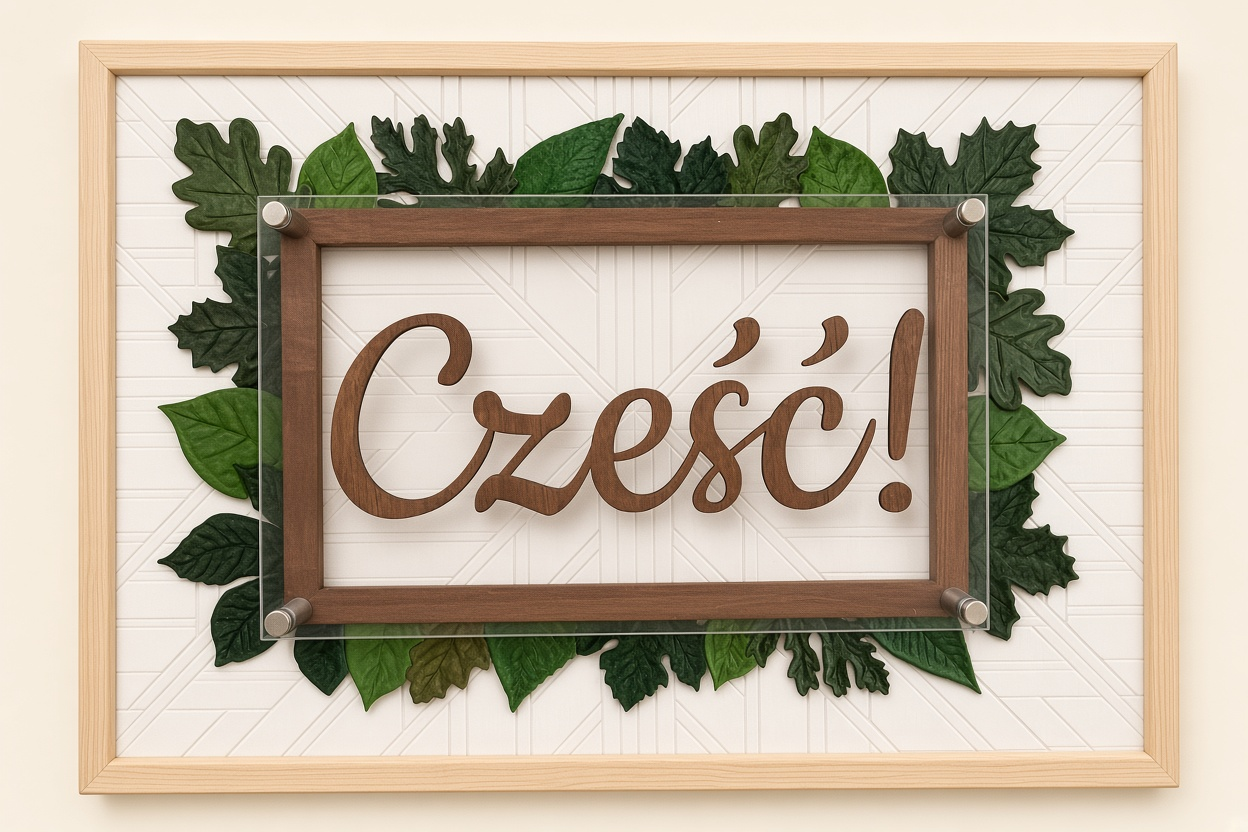
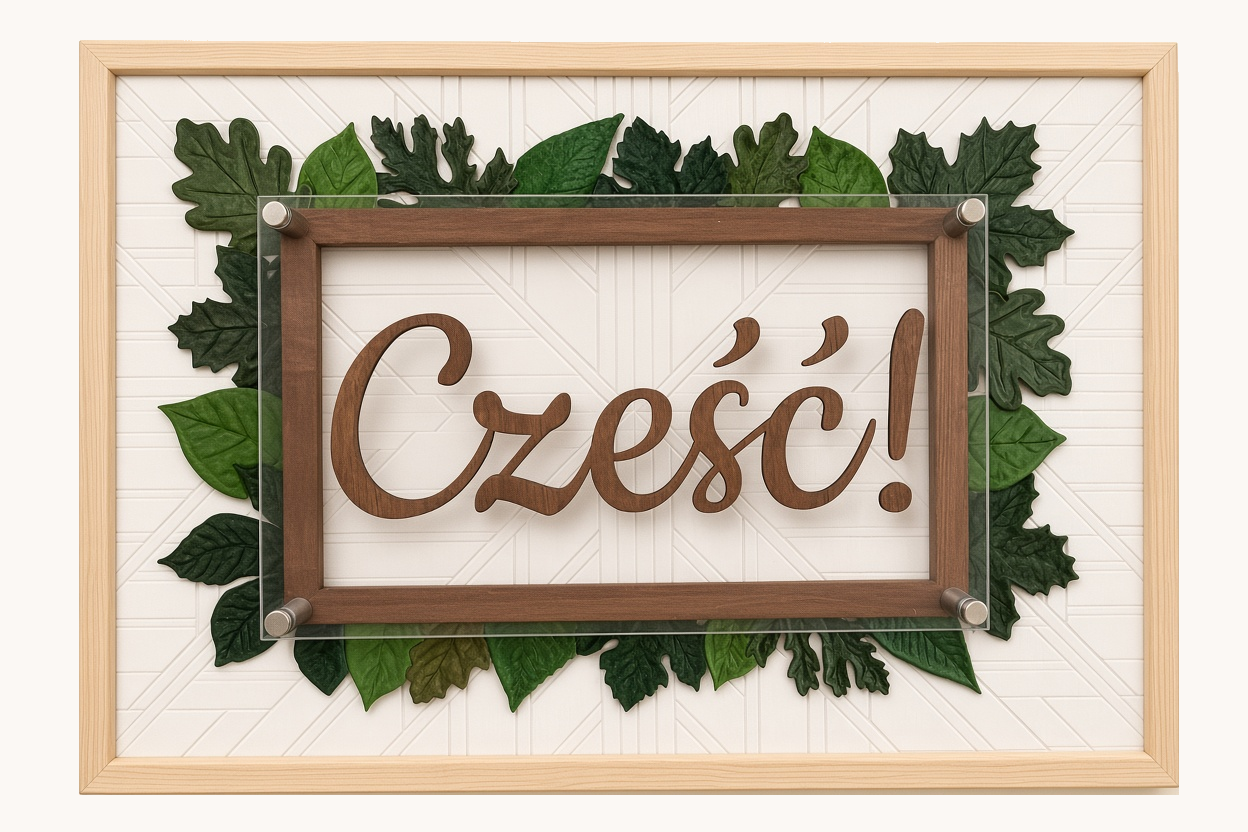
Match sign photo background to homepage cream

Changed region(s): [[0.0312, 0.0625, 0.9688, 1.0]]

diff --git a/docs/admin.html b/docs/admin.html
@@ -137,8 +137,8 @@
         <div class="live-home-fields">
           <article class="live-home-block live-home-hero">
             <div class="live-home-block-title"><span>01</span><div><b>Zdjęcie i tekst główny</b><small>Duże zdjęcie w sekcji hero strony startowej</small></div></div>
-            <div class="live-home-image-row"><img id="nh-hero-thumb" src="assets/media/sklep/szyld-czesc-profesjonalne.jpg" alt="Podgląd zdjęcia głównego"><div class="live-home-image-controls">
-              <label for="nh-hero-image">Adres zdjęcia</label><input id="nh-hero-image" type="url" value="assets/media/sklep/szyld-czesc-profesjonalne.jpg" placeholder="https://… lub assets/…">
+            <div class="live-home-image-row"><img id="nh-hero-thumb" src="assets/media/sklep/szyld-czesc-profesjonalne.png?v=sitecream-1" alt="Podgląd zdjęcia głównego"><div class="live-home-image-controls">
+              <label for="nh-hero-image">Adres zdjęcia</label><input id="nh-hero-image" type="url" value="assets/media/sklep/szyld-czesc-profesjonalne.png?v=sitecream-1" placeholder="https://… lub assets/…">
               <div class="live-home-upload"><input id="nh-hero-file" type="file" accept="image/*"><button class="btn outline" id="nh-hero-upload" type="button">Wgraj zdjęcie do biblioteki</button></div>
             </div></div>
             <div class="live-home-text-grid"><label>Tytuł<input id="nh-hero-title" value="Z miłości do drewna" maxlength="90"></label><label>Opis<textarea id="nh-hero-copy" rows="2" maxlength="240">Personalizowane drewniane tablice, szopki i dekoracje na wyjątkowe chwile.</textarea></label></div>
@@ -146,10 +146,10 @@
           <div class="live-home-block-title live-home-products-title"><span>02</span><div><b>Trzy karty „Wybrane dla Ciebie”</b><small>Edytuj treści oraz zdjęcia wszystkich trzech kart</small></div></div>
           <div class="live-home-product-grid">
             <article class="live-home-product-editor"><img id="nh-card1-thumb" src="assets/media/sklep/szopka.jpg" alt="Podgląd zdjęcia karty pierwszej"><label>Kategoria<input id="nh-card1-category" value="Dekoracje świąteczne"></label><label>Nazwa produktu<input id="nh-card1-title" value="Szopka bożonarodzeniowa (warstwowa)"></label><label>Opis<input id="nh-card1-description" value=""></label><label>Cena / informacja o wycenie<input id="nh-card1-price" value="319 zł / szt."></label><label>Tekst linku<input id="nh-card1-cta" value="Zapytaj o produkt →"></label><label>Adres zdjęcia<input id="nh-card1-image" type="url" value="assets/media/sklep/szopka.jpg" placeholder="https://… lub assets/…"></label><div class="live-home-upload"><input id="nh-card1-file" type="file" accept="image/*"><button class="btn outline" id="nh-card1-upload" type="button">Wgraj zdjęcie</button></div></article>
-            <article class="live-home-product-editor"><img id="nh-card2-thumb" src="assets/media/sklep/szyld-czesc-profesjonalne.jpg" alt="Podgląd zdjęcia karty drugiej"><label>Kategoria<input id="nh-card2-category" value="Szyldy i tablice"></label><label>Nazwa produktu<input id="nh-card2-title" value="Szyld powitalny „Cześć!”"></label><label>Opis<input id="nh-card2-description" value="To wzór pokazowy — nie jest na sprzedaż. Przygotujemy szyld według Twojego projektu."></label><label>Cena / informacja o wycenie<input id="nh-card2-price" value=""></label><label>Tekst linku<input id="nh-card2-cta" value="Prześlij projekt do wyceny →"></label><label>Adres zdjęcia<input id="nh-card2-image" type="url" value="assets/media/sklep/szyld-czesc-profesjonalne.jpg" placeholder="https://… lub assets/…"></label><div class="live-home-upload"><input id="nh-card2-file" type="file" accept="image/*"><button class="btn outline" id="nh-card2-upload" type="button">Wgraj zdjęcie</button></div></article>
+            <article class="live-home-product-editor"><img id="nh-card2-thumb" src="assets/media/sklep/szyld-czesc-profesjonalne.png?v=sitecream-1" alt="Podgląd zdjęcia karty drugiej"><label>Kategoria<input id="nh-card2-category" value="Szyldy i tablice"></label><label>Nazwa produktu<input id="nh-card2-title" value="Szyld powitalny „Cześć!”"></label><label>Opis<input id="nh-card2-description" value="To wzór pokazowy — nie jest na sprzedaż. Przygotujemy szyld według Twojego projektu."></label><label>Cena / informacja o wycenie<input id="nh-card2-price" value=""></label><label>Tekst linku<input id="nh-card2-cta" value="Prześlij projekt do wyceny →"></label><label>Adres zdjęcia<input id="nh-card2-image" type="url" value="assets/media/sklep/szyld-czesc-profesjonalne.png?v=sitecream-1" placeholder="https://… lub assets/…"></label><div class="live-home-upload"><input id="nh-card2-file" type="file" accept="image/*"><button class="btn outline" id="nh-card2-upload" type="button">Wgraj zdjęcie</button></div></article>
             <article class="live-home-product-editor"><img id="nh-card3-thumb" alt="Podgląd zdjęcia karty trzeciej" hidden><label>Kategoria<input id="nh-card3-category" value="Prezenty personalizowane"></label><label>Nazwa produktu<input id="nh-card3-title" value="Metryczka"></label><label>Opis<input id="nh-card3-description" value=""></label><label>Cena / informacja o wycenie<input id="nh-card3-price" value="269 zł / szt."></label><label>Tekst linku<input id="nh-card3-cta" value="Zapytaj o metryczkę →"></label><label>Zdjęcie (puste = zdjęcie realizacji #14)<input id="nh-card3-image" type="url" value="" placeholder="Własne zdjęcie lub puste dla zdjęcia realizacji"></label><div class="live-home-upload"><input id="nh-card3-file" type="file" accept="image/*"><button class="btn outline" id="nh-card3-upload" type="button">Wgraj zdjęcie</button></div><p class="live-home-photo-note">Możesz zostawić zdjęcie realizacji #14 albo ustawić własny adres lub wgrać inne zdjęcie.</p></article>
           </div>
-          <div class="live-home-preview"><b>Podgląd zdjęć</b><div><img id="nh-preview-hero" src="assets/media/sklep/szyld-czesc-profesjonalne.jpg" alt="Hero"><img id="nh-preview-card1" src="assets/media/sklep/szopka.jpg" alt="Karta 1"><img id="nh-preview-card2" src="assets/media/sklep/szyld-czesc-profesjonalne.jpg" alt="Karta 2"><img id="nh-preview-card3" alt="Karta 3 — metryczka" hidden></div></div>
+          <div class="live-home-preview"><b>Podgląd zdjęć</b><div><img id="nh-preview-hero" src="assets/media/sklep/szyld-czesc-profesjonalne.png?v=sitecream-1" alt="Hero"><img id="nh-preview-card1" src="assets/media/sklep/szopka.jpg" alt="Karta 1"><img id="nh-preview-card2" src="assets/media/sklep/szyld-czesc-profesjonalne.png?v=sitecream-1" alt="Karta 2"><img id="nh-preview-card3" alt="Karta 3 — metryczka" hidden></div></div>
           <div class="live-home-actions"><p id="nh-status" role="status" aria-live="polite">Wczytuję zapisane ustawienia…</p><div><button class="btn outline" id="nh-discard" type="button">Odrzuć niezapisane</button><button class="btn-zapisz-duzy" id="nh-save" type="button">Zapisz nowy układ strony głównej</button></div></div>
         </div>
       </section>
@@ -766,10 +766,10 @@
   /* Edytor aktualnego, statycznego layoutu landing page (hero + 3 karty).
      Ustawienia są trzymane jako osobny klucz `landing` w istniejącym JSON-ie strony głównej. */
   var NH_DEFAULTS = {
-    hero:{title:'Z miłości do drewna',copy:'Personalizowane drewniane tablice, szopki i dekoracje na wyjątkowe chwile.',image:'assets/media/sklep/szyld-czesc-profesjonalne.jpg'},
+    hero:{title:'Z miłości do drewna',copy:'Personalizowane drewniane tablice, szopki i dekoracje na wyjątkowe chwile.',image:'assets/media/sklep/szyld-czesc-profesjonalne.png?v=sitecream-1'},
     cards:[
       {category:'Dekoracje świąteczne',title:'Szopka bożonarodzeniowa (warstwowa)',description:'',price:'319 zł / szt.',cta:'Zapytaj o produkt →',image:'assets/media/sklep/szopka.jpg'},
-      {category:'Szyldy i tablice',title:'Szyld powitalny „Cześć!”',description:'To wzór pokazowy — nie jest na sprzedaż. Przygotujemy szyld według Twojego projektu.',price:'',cta:'Prześlij projekt do wyceny →',image:'assets/media/sklep/szyld-czesc-profesjonalne.jpg'},
+      {category:'Szyldy i tablice',title:'Szyld powitalny „Cześć!”',description:'To wzór pokazowy — nie jest na sprzedaż. Przygotujemy szyld według Twojego projektu.',price:'',cta:'Prześlij projekt do wyceny →',image:'assets/media/sklep/szyld-czesc-profesjonalne.png?v=sitecream-1'},
       {category:'Prezenty personalizowane',title:'Metryczka',description:'',price:'269 zł / szt.',cta:'Zapytaj o metryczkę →'}
     ]
   };
@@ -779,10 +779,10 @@
   var NH_THIRD_CURRENT_IMAGE = '';
   function nhInput(id,value){var e=document.getElementById(id);if(e)e.value=value==null?'':String(value);}
   function nhText(id,value){var e=document.getElementById(id);if(e)e.textContent=value==null?'':String(value);}
-  function nhHomePhoto(src){src=String(src||'').trim();var path=src.replace(/^\.\//,'');return path==='assets/media/sklep/szyld.jpg'||/(?:^|\/)uploads\/home-(?:hero|card2)-czesc-[A-Za-z0-9._-]+\.jpg$/i.test(path)?'assets/media/sklep/szyld-czesc-profesjonalne.jpg':src;}
+  function nhHomePhoto(src){src=String(src||'').trim();var path=src.replace(/^\.\//,'').split('?')[0];return path==='assets/media/sklep/szyld.jpg'||path==='assets/media/sklep/szyld-czesc-profesjonalne.jpg'||/(?:^|\/)uploads\/home-(?:hero|card2)-czesc-[A-Za-z0-9._-]+\.jpg$/i.test(path)?'assets/media/sklep/szyld-czesc-profesjonalne.png?v=sitecream-1':src;}
   function nhSafeImage(src){
     src=String(src||'').trim();
-    return (/^https:\/\//i.test(src)||/^(assets|uploads)\/[A-Za-z0-9._/-]+\.(?:jpe?g|png|webp|gif)$/i.test(src))?src:'';
+    return (/^https:\/\//i.test(src)||/^(assets|uploads)\/[A-Za-z0-9._/-]+\.(?:jpe?g|png|webp|gif)(?:\?v=[A-Za-z0-9_-]+)?$/i.test(src))?src:'';
   }
   function nhReadForm(){
     var d={hero:{title:document.getElementById('nh-hero-title').value.trim(),copy:document.getElementById('nh-hero-copy').value.trim(),image:document.getElementById('nh-hero-image').value.trim()},cards:[]};

diff --git a/docs/index.html b/docs/index.html
@@ -12,7 +12,7 @@
 <meta property="og:type" content="website">
 <meta property="og:site_name" content="Studio Sygnatura">
 <meta property="og:locale" content="pl_PL">
-<meta property="og:image" content="https://studiosygnatura.pl/assets/media/sklep/szyld-czesc-profesjonalne.jpg">
+<meta property="og:image" content="https://studiosygnatura.pl/assets/media/sklep/szyld-czesc-profesjonalne.png?v=sitecream-1">
 <meta name="twitter:card" content="summary_large_image">
 <link rel="icon" href="assets/favicon.svg" type="image/svg+xml">
 <link rel="preconnect" href="https://fonts.googleapis.com">
@@ -20,7 +20,7 @@
 <link href="https://fonts.googleapis.com/css2?family=Cormorant+Garamond:wght@500;600;700&family=Playfair+Display:wght@500;700&family=Lato:wght@400;700&display=swap" rel="stylesheet">
 <link rel="stylesheet" href="assets/home.css?v=czesc-studio-1">
 <script type="application/ld+json">
-{"@context":"https://schema.org","@graph":[{"@type":"Organization","@id":"https://studiosygnatura.pl/#organization","name":"Studio Sygnatura","url":"https://studiosygnatura.pl/","logo":"https://studiosygnatura.pl/assets/sygnet.svg","image":"https://studiosygnatura.pl/assets/media/sklep/szyld-czesc-profesjonalne.jpg","description":"Poznańska pracownia tworząca drewniane szyldy, szopki, dekoracje i personalizowane prezenty.","email":"kontakt@studiosygnatura.pl","telephone":"+48538124538","areaServed":[{"@type":"Country","name":"Polska"}],"sameAs":["https://www.instagram.com/studiosygnatura/","https://www.facebook.com/p/Studio-SygNatura-61595255863642/","https://pl.pinterest.com/studiosygnatura/"]},{"@type":"WebSite","@id":"https://studiosygnatura.pl/#website","url":"https://studiosygnatura.pl/","name":"Studio Sygnatura","inLanguage":"pl-PL","publisher":{"@id":"https://studiosygnatura.pl/#organization"}}]}
+{"@context":"https://schema.org","@graph":[{"@type":"Organization","@id":"https://studiosygnatura.pl/#organization","name":"Studio Sygnatura","url":"https://studiosygnatura.pl/","logo":"https://studiosygnatura.pl/assets/sygnet.svg","image":"https://studiosygnatura.pl/assets/media/sklep/szyld-czesc-profesjonalne.png?v=sitecream-1","description":"Poznańska pracownia tworząca drewniane szyldy, szopki, dekoracje i personalizowane prezenty.","email":"kontakt@studiosygnatura.pl","telephone":"+48538124538","areaServed":[{"@type":"Country","name":"Polska"}],"sameAs":["https://www.instagram.com/studiosygnatura/","https://www.facebook.com/p/Studio-SygNatura-61595255863642/","https://pl.pinterest.com/studiosygnatura/"]},{"@type":"WebSite","@id":"https://studiosygnatura.pl/#website","url":"https://studiosygnatura.pl/","name":"Studio Sygnatura","inLanguage":"pl-PL","publisher":{"@id":"https://studiosygnatura.pl/#organization"}}]}
 </script>
 </head>
 <body>
@@ -45,13 +45,13 @@
         <div class="hero-point"><span class="point-icon" aria-hidden="true">◎</span><span><b>Wysyłamy w całej Polsce</b><small>bezpiecznie pod Twoje drzwi</small></span></div>
       </div>
     </div>
-    <div class="hero-image"><img id="home-hero-image" src="assets/media/sklep/szyld-czesc-profesjonalne.jpg" alt="Prosty widok na wprost drewnianego szyldu powitalnego Cześć! na kremowym tle" fetchpriority="high"></div>
+    <div class="hero-image"><img id="home-hero-image" src="assets/media/sklep/szyld-czesc-profesjonalne.png?v=sitecream-1" alt="Prosty widok na wprost drewnianego szyldu powitalnego Cześć! na kremowym tle" fetchpriority="high"></div>
   </section>
   <section class="products" id="produkty" aria-labelledby="products-title">
     <div class="section-title"><h2 id="products-title">Wybrane dla Ciebie</h2></div>
     <div class="product-grid">
       <article class="product-card"><a class="product-photo" href="kontakt.html" aria-label="Zapytaj o szopkę bożonarodzeniową"><img id="home-card1-image" src="assets/media/sklep/szopka.jpg" alt="Ręcznie wykonana szopka bożonarodzeniowa" loading="lazy"></a><div class="product-copy"><span class="product-category" id="home-card1-category">Dekoracje świąteczne</span><h3 id="home-card1-title">Szopka bożonarodzeniowa (warstwowa)</h3><p id="home-card1-description" hidden></p><div class="product-meta"><strong class="product-price" id="home-card1-price">319 zł / szt.</strong><a class="product-cta" id="home-card1-cta" href="kontakt.html">Zapytaj o produkt →</a></div></div></article>
-      <article class="product-card"><a class="product-photo" href="kontakt.html" aria-label="Prześlij projekt szyldu do wyceny"><img id="home-card2-image" src="assets/media/sklep/szyld-czesc-profesjonalne.jpg" alt="Pokazowy drewniany szyld z napisem Cześć! na jasnym tle" loading="lazy"></a><div class="product-copy"><span class="product-category" id="home-card2-category">Szyldy i tablice</span><h3 id="home-card2-title">Szyld powitalny „Cześć!”</h3><p id="home-card2-description">To wzór pokazowy — nie jest na sprzedaż. Przygotujemy szyld według Twojego projektu.</p><div class="product-meta"><strong class="product-price" id="home-card2-price" hidden></strong><a class="product-cta" id="home-card2-cta" href="kontakt.html">Prześlij projekt do wyceny →</a></div></div></article>
+      <article class="product-card"><a class="product-photo" href="kontakt.html" aria-label="Prześlij projekt szyldu do wyceny"><img id="home-card2-image" src="assets/media/sklep/szyld-czesc-profesjonalne.png?v=sitecream-1" alt="Pokazowy drewniany szyld z napisem Cześć! na jasnym tle" loading="lazy"></a><div class="product-copy"><span class="product-category" id="home-card2-category">Szyldy i tablice</span><h3 id="home-card2-title">Szyld powitalny „Cześć!”</h3><p id="home-card2-description">To wzór pokazowy — nie jest na sprzedaż. Przygotujemy szyld według Twojego projektu.</p><div class="product-meta"><strong class="product-price" id="home-card2-price" hidden></strong><a class="product-cta" id="home-card2-cta" href="kontakt.html">Prześlij projekt do wyceny →</a></div></div></article>
       <article class="product-card featured"><a class="product-photo" id="metryczka-link" href="blog-wpis.html?id=14" aria-label="Zobacz prawdziwą metryczkę w realizacji"><img id="metryczka-photo" alt="Metryczka z realizacji Studio Sygnatura" loading="lazy" hidden><span class="photo-placeholder" id="metryczka-placeholder">Ładuję zdjęcie z realizacji…</span></a><div class="product-copy"><span class="product-category" id="home-card3-category">Prezenty personalizowane</span><h3 id="home-card3-title">Metryczka</h3><p id="home-card3-description" hidden></p><div class="product-meta"><strong class="product-price" id="home-card3-price">269 zł / szt.</strong><a class="product-cta" id="home-card3-cta" href="kontakt.html">Zapytaj o metryczkę →</a></div></div></article>
     </div>
   </section>
@@ -78,7 +78,7 @@
 </footer>
 <script src="assets/config.js?v=footer-restored-2"></script>
 <script src="assets/api.js?v=footer-restored-2"></script>
-<script src="assets/home-layout.js?v=czesc-studio-2"></script>
+<script src="assets/home-layout.js?v=sitecream-1"></script>
 <script>
 (function(){
   var photo=document.getElementById('metryczka-photo');

diff --git a/docs/assets/home-layout.js b/docs/assets/home-layout.js
@@ -2,10 +2,10 @@
 (function () {
   'use strict';
   var FALLBACK = {
-    hero: { title: 'Z miłości do drewna', copy: 'Personalizowane drewniane tablice, szopki i dekoracje na wyjątkowe chwile.', image: 'assets/media/sklep/szyld-czesc-profesjonalne.jpg' },
+    hero: { title: 'Z miłości do drewna', copy: 'Personalizowane drewniane tablice, szopki i dekoracje na wyjątkowe chwile.', image: 'assets/media/sklep/szyld-czesc-profesjonalne.png?v=sitecream-1' },
     cards: [
       { category: 'Dekoracje świąteczne', title: 'Szopka bożonarodzeniowa (warstwowa)', description: '', price: '319 zł / szt.', cta: 'Zapytaj o produkt →', image: 'assets/media/sklep/szopka.jpg' },
-      { category: 'Szyldy i tablice', title: 'Szyld powitalny „Cześć!”', description: 'To wzór pokazowy — nie jest na sprzedaż. Przygotujemy szyld według Twojego projektu.', price: '', cta: 'Prześlij projekt do wyceny →', image: 'assets/media/sklep/szyld-czesc-profesjonalne.jpg' },
+      { category: 'Szyldy i tablice', title: 'Szyld powitalny „Cześć!”', description: 'To wzór pokazowy — nie jest na sprzedaż. Przygotujemy szyld według Twojego projektu.', price: '', cta: 'Prześlij projekt do wyceny →', image: 'assets/media/sklep/szyld-czesc-profesjonalne.png?v=sitecream-1' },
       { category: 'Prezenty personalizowane', title: 'Metryczka', description: '', price: '269 zł / szt.', cta: 'Zapytaj o metryczkę →' }
     ]
   };
@@ -13,11 +13,11 @@
   function image(id, src) {
     var e = document.getElementById(id);
     src = String(src || '').trim();
-    var path = src.replace(/^\.\//, ''), polished = 'assets/media/sklep/szyld-czesc-profesjonalne.jpg';
-    /* Migrate the previously uploaded angled photo too, not only the old local fallback.
-       Otherwise the delayed settings response would replace the clean first paint. */
-    if (path === 'assets/media/sklep/szyld.jpg' || /(?:^|\/)uploads\/home-(?:hero|card2)-czesc-[A-Za-z0-9._-]+\.jpg$/i.test(path)) src = polished;
-    if (e && (/^https:\/\//i.test(src) || /^(assets|uploads)\/[A-Za-z0-9._/-]+\.(?:jpe?g|png|webp|gif)$/i.test(src))) e.src = src;
+    var path = src.replace(/^\.\//, ''), pathNoQuery = path.split('?')[0], polished = 'assets/media/sklep/szyld-czesc-profesjonalne.png?v=sitecream-1';
+    /* Migrate the previously uploaded angled photo and cache-old local image too,
+       so the settings response can never replace the exact-color first paint. */
+    if (pathNoQuery === 'assets/media/sklep/szyld.jpg' || pathNoQuery === 'assets/media/sklep/szyld-czesc-profesjonalne.jpg' || /(?:^|\/)uploads\/home-(?:hero|card2)-czesc-[A-Za-z0-9._-]+\.jpg$/i.test(pathNoQuery)) src = polished;
+    if (e && (/^https:\/\//i.test(src) || /^(assets|uploads)\/[A-Za-z0-9._/-]+\.(?:jpe?g|png|webp|gif)(?:\?v=[A-Za-z0-9_-]+)?$/i.test(src))) e.src = src;
   }
   function description(id, value) {
     var e = document.getElementById(id);
